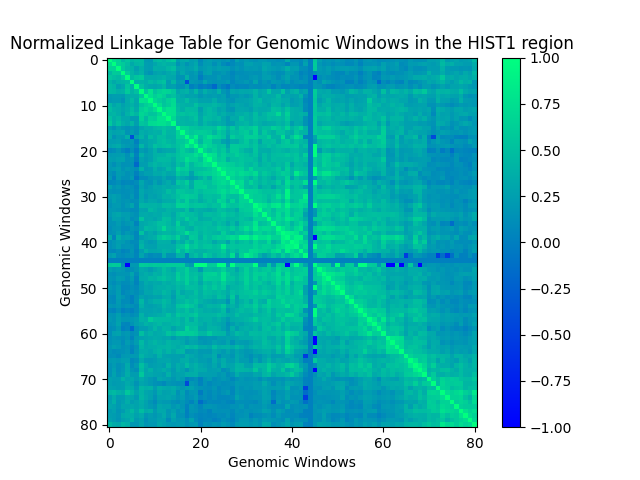
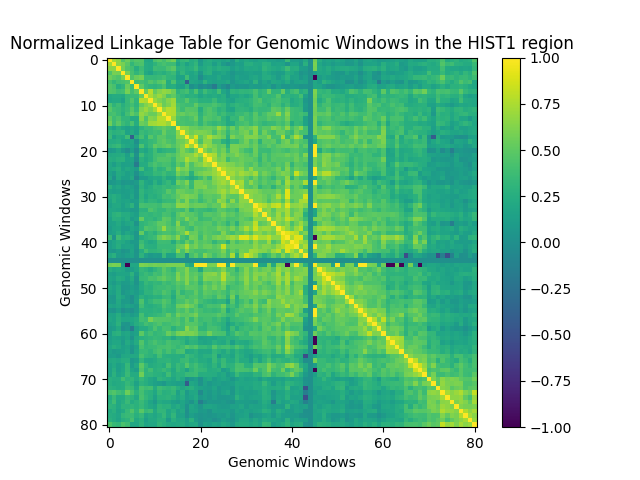
last changes before demo

diff --git a/Activity-11/main.py b/Activity-11/main.py
@@ -52,7 +52,7 @@ def calculate_normal_linkage(row_a, row_b):
 
     co_segregation = float(co_segregation) / len(row_a)
 
-    # Detection Freq function
+    # detection freq function
     def calculate_detection_freq(inner_row):
         detection_freq = 0
         for _, inner_value in enumerate(inner_row):
@@ -60,14 +60,14 @@ def calculate_normal_linkage(row_a, row_b):
                 detection_freq += 1
         return float(detection_freq) / len(inner_row)
 
-    # Detection Freq of A and B
+    # detection freq of A and B
     freq_a = calculate_detection_freq(row_a)
     freq_b = calculate_detection_freq(row_b)
 
-    # Linkage
+    # linkage
     linkage = co_segregation - (freq_a * freq_b)
 
-    # Normalized Linkage
+    # normalized linkage
     max_linkage = None
 
     if linkage < 0:
@@ -78,17 +78,13 @@ def calculate_normal_linkage(row_a, row_b):
         # if linkage == 0
         return linkage
 
-    if (linkage / max_linkage) == -1:
-        print(linkage, max_linkage)
-
     return linkage / max_linkage
 
 
 # making the normalized linkage table
 normalized_linkage_table = [
     [
-        calculate_normal_linkage(extracted_windows[i], extracted_windows[j])
-        for j in range(num_windows)
+        calculate_normal_linkage(extracted_windows[i], extracted_windows[j]) for j in range(num_windows)
     ]
     for i in range(num_windows)
 ]
